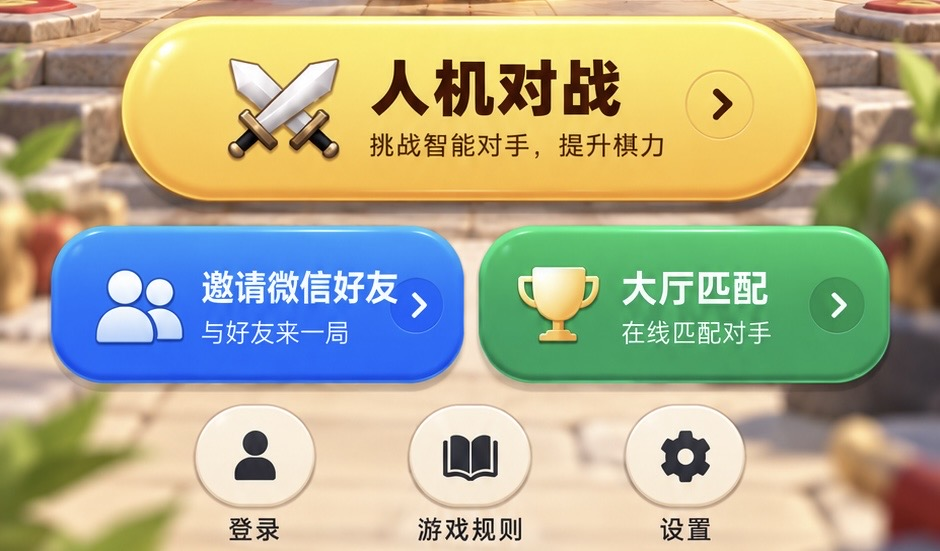
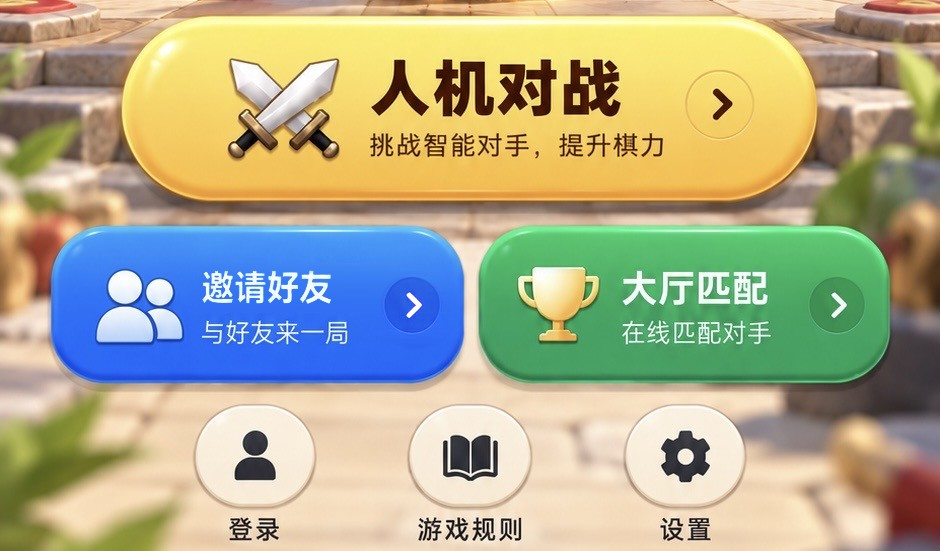
Remove invite button ghost shadow

Changed region(s): [[0.216, 0.4936, 0.4628, 0.5862]]

diff --git a/src/ui-v2.js b/src/ui-v2.js
@@ -23,9 +23,12 @@ function install(Renderer){const p=Renderer.prototype;
  // Sample original artwork directly. No regenerated icons or font substitution.
  p.referenceHomeFunctions=function(y,width){const im=this.uiImage('home_reference');if(!im)return false;const c=this.ctx,k=width/940,x=(375-width)/2;
  if(!this._homeLabelBackground){const layer=wx.createCanvas();layer.width=940;layer.height=551;const q=layer.getContext('2d');q.filter='saturate(.88) brightness(1.03)';q.drawImage(im,0,0);[[357,50,323,112,675],[619,264,163,84,788]].forEach(([bx,by,bw,bh,strip])=>q.drawImage(im,strip,by,1,bh,bx,by,bw,bh));q.filter='none';this._homeLabelBackground=layer;}
- const sprite=(sx,sy,sw,sh,r,action)=>{c.save();this.rounded(x+sx*k,y+sy*k,sw*k,sh*k,r*k);c.clip();c.drawImage(this._homeLabelBackground,sx,sy,sw,sh,x+sx*k,y+sy*k,sw*k,sh*k);c.restore();this.targets.push({x:x+sx*k,y:y+sy*k,w:sw*k,h:sh*k,action});};
+ const sprite=(sx,sy,sw,sh,r,action,sourceHeight=sh)=>{c.save();this.rounded(x+sx*k,y+sy*k,sw*k,sh*k,r*k);c.clip();c.drawImage(this._homeLabelBackground,sx,sy,sw,sourceHeight,x+sx*k,y+sy*k,sw*k,sh*k);c.restore();this.targets.push({x:x+sx*k,y:y+sy*k,w:sw*k,h:sh*k,action});};
  sprite(122,17,694,185,90,()=>this.runtime.open('difficulty'));
- sprite(51,227,414,156,60,()=>this.runtime.startGame({mode:'online'}));
+ // The source blue button has a baked drop shadow below y=370. Crop it out
+ // before stretching into the same 156px slot so no ghost band appears below
+ // the invite button on the home screen.
+ sprite(51,227,414,156,60,()=>this.runtime.startGame({mode:'online'}),143);
  sprite(479,227,412,156,60,()=>this.runtime.startGame({mode:'online',match:'1'}));
  const label=(text,px,py,size,color,bold)=>old.text.call(this,text,x+px*k,y+py*k,size*k,color,'left',bold);
  label('人机对战',369,88,60,'#421d09',true);label('挑战智能对手，提升棋力',369,145,25,'#421d09',false);
